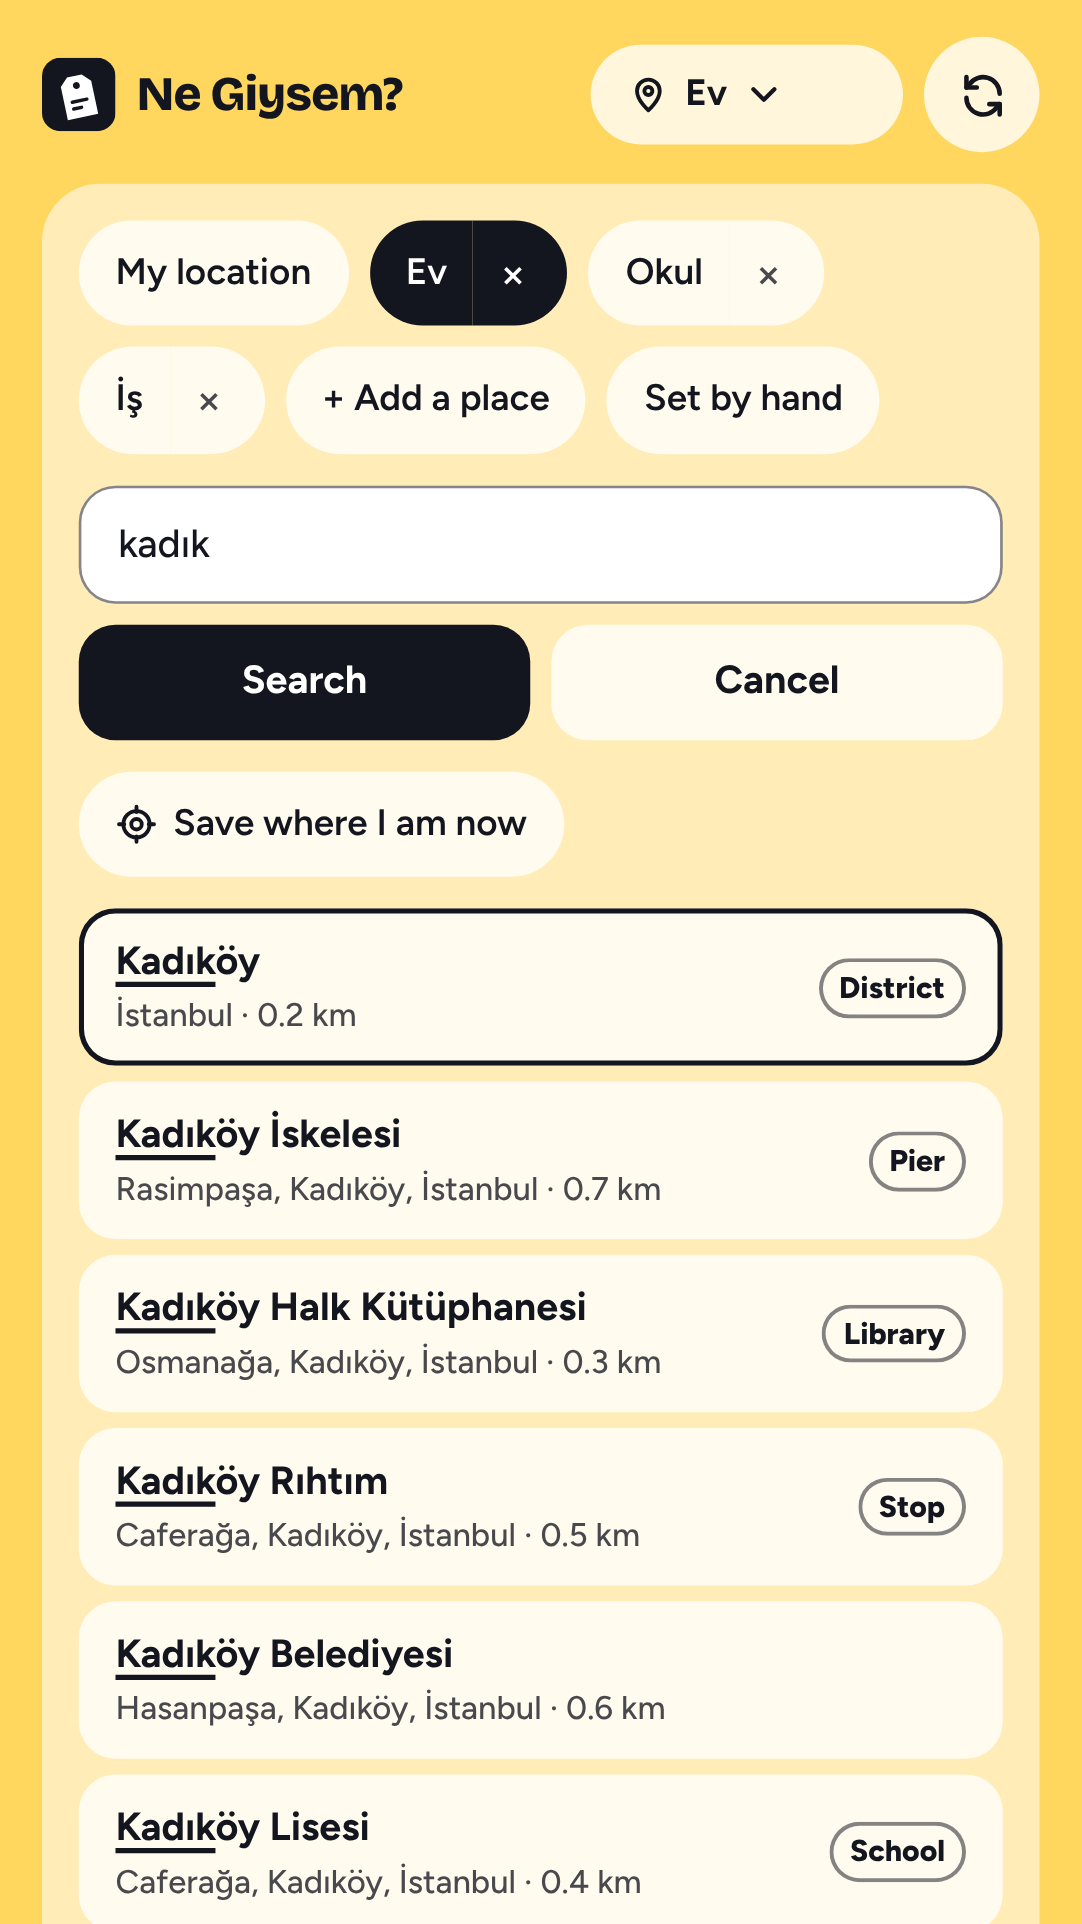
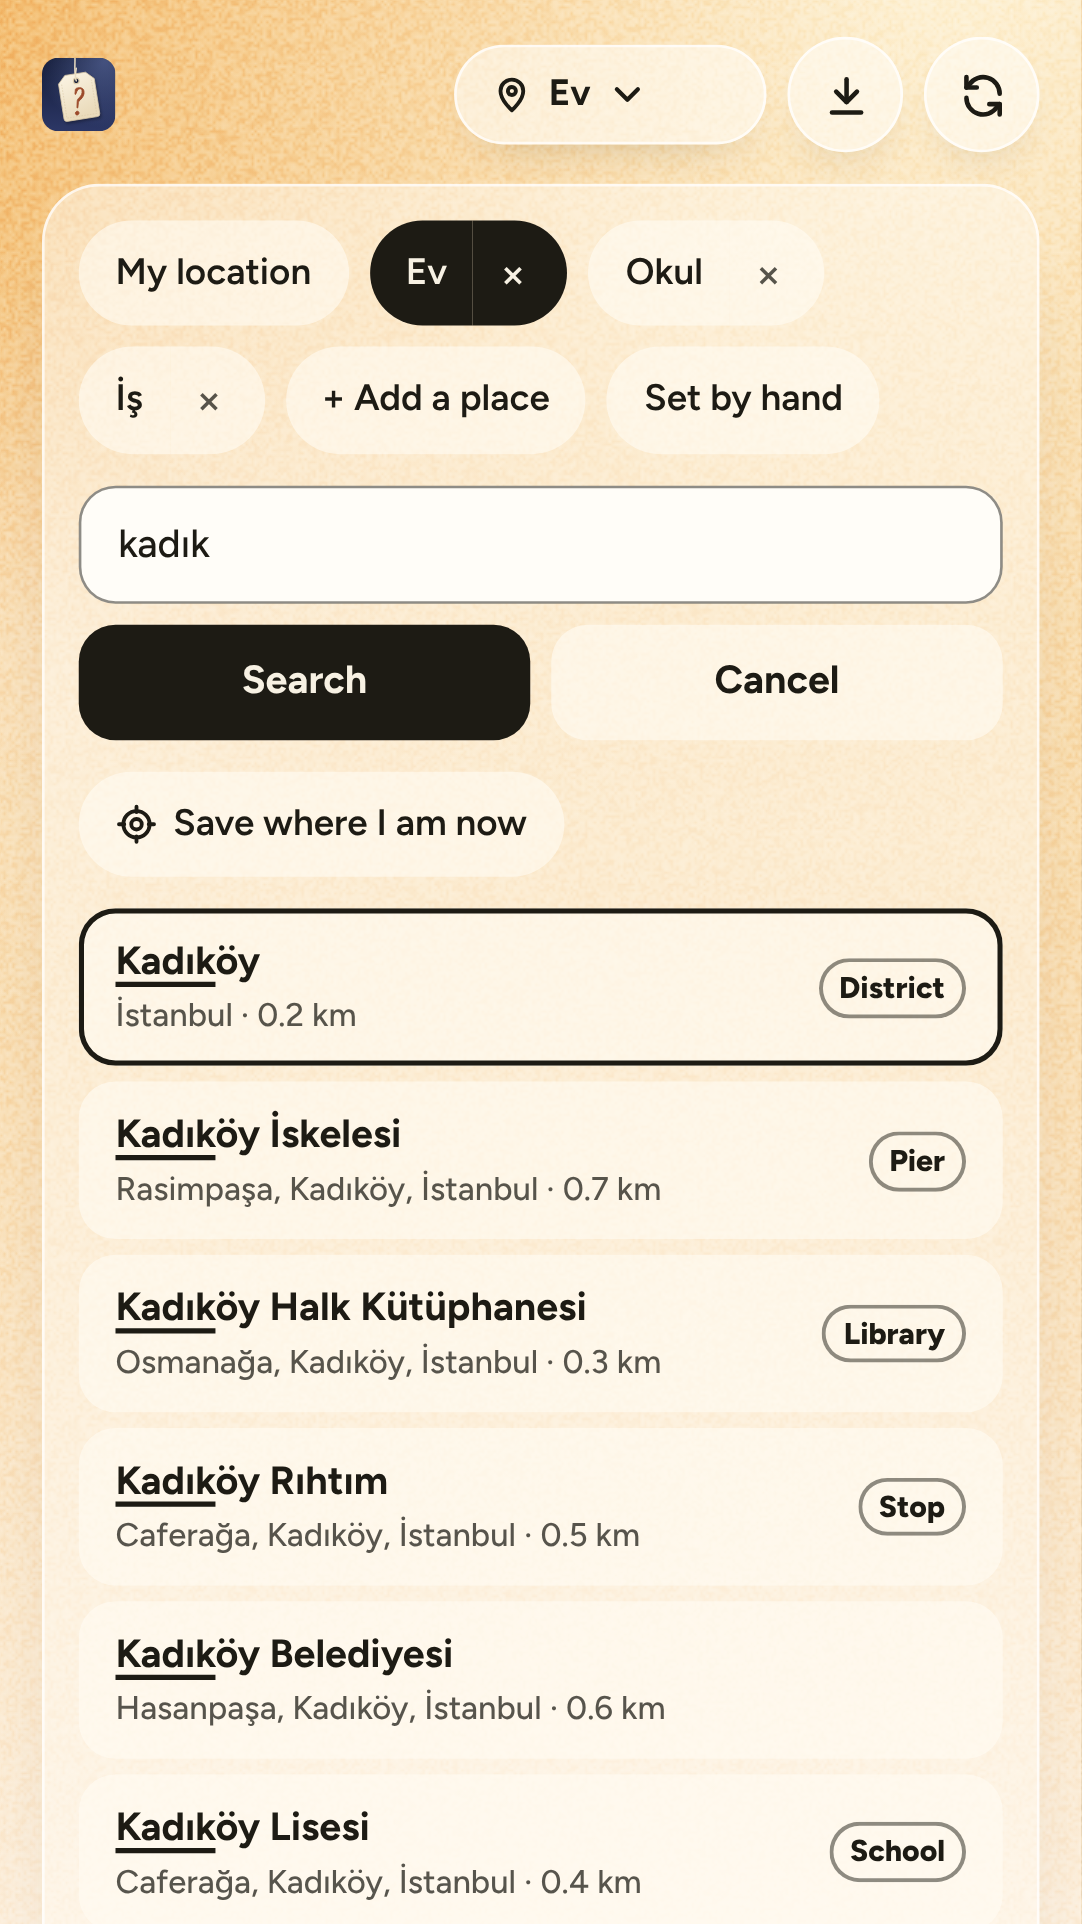
Widget seçici önizlemesi, mağaza görselleri ve Play ikonu yeni görünümde
- widget_preview.png: emülatörde çizilen 412×184 widget (CI'daki gorunum-onizleme.png), köşeleri yuvarlatılmış.
- Play ekran görüntüleri (TR, EN) yeni tasarımla yeniden üretildi; ekran görüntüsü betiği Instrument Serif'i
  yerelden veriyor.
- store/play/graphics/icon-512.png: Play Console'un uygulama ikonu (tools/icons.js üretir).

Claude-Session: https://claude.ai/code/session_01GVeiD9wVk58cdTMcuKfWye

diff --git a/tools/icons.js b/tools/icons.js
@@ -4,8 +4,9 @@
 //   app/src/main/res/mipmap-*dpi/ic_launcher_foreground.png      the tag (also the watch app's icon: wear/build.gradle.kts)
 //   app/src/main/res/mipmap-*dpi/ic_launcher_monochrome.png      the tag as a silhouette, for themed icons
 //   web/icons/favicon.svg, icon-192.png, icon-512.png, maskable-512.png, apple-touch-icon.png
+//   store/play/graphics/icon-512.png                              Google Play's app icon (full square: Play rounds it)
 //   web/index.html  the header logo (between <div class="logo"> and its <span>)
-// Run from the repository root after changing the mark (needs the tests' Playwright):
+// Run from the repository root after changing the mark (needs the tests' Playwright and Python's Pillow):
 //   node tools/icons.js
 const fs = require("fs"), path = require("path");
 const ROOT = path.resolve(__dirname, "..");
@@ -116,6 +117,11 @@ function backgroundXml() {
   await png(badge("i"), 512, path.join(icons, "icon-512.png"));
   await png(full("i", 1.2), 512, path.join(icons, "maskable-512.png"), true);   // the whole square: the system masks it
   await png(full("i", 1.3), 180, path.join(icons, "apple-touch-icon.png"), true);
+  const play = path.join(ROOT, "store/play/graphics/icon-512.png");
+  await png(full("i", 1.3), 512, play, true);
+  // Play asks for a 32-bit PNG: the same picture with an (opaque) alpha channel, via Python's Pillow.
+  const r = require("child_process").spawnSync("python3", ["-c", "import sys; from PIL import Image; Image.open(sys.argv[1]).convert('RGBA').save(sys.argv[1])", play]);
+  if (r.status !== 0) throw new Error("icon-512 RGBA: " + r.stderr);
   await browser.close();
 
   // The header logo (also drawn on the share picture), with its own ids.

diff --git a/store/README.md b/store/README.md
@@ -18,6 +18,7 @@ Google Play yayını ve web sitesi için hazırlanan dosyalar. Durum: 24 Ekim 20
 | `play/ads-declaration.md` | Reklam beyanı, reklam kimliği, reklam yerleşimi kontrol listesi, rıza notları. |
 | `play/app-access.md` | “Giriş gerekmez” cevabı ve inceleme ekibi için not. |
 | `play/graphics/feature-graphic.png`, `feature-graphic-en.png` | Öne çıkan grafik (1024×500). Yeniden üret: `NODE_PATH=$(npm root -g) node store/play/graphics/make-feature-graphic.js` (kıyafet çizimleri `web/index.html` içindeki `ART`/`rackArt`’tan okunur). Uygulama ikonu, web ikonları ve başlıktaki logo: `node tools/icons.js`. |
+| `play/graphics/icon-512.png` | Play Console'daki uygulama ikonu (512×512, tam kare; Play köşeleri kendisi yuvarlar). `node tools/icons.js` üretir. |
 | `play/screenshots/make-screenshots.js` → `out/*.png` | Telefon ekran görüntüleri (1082×1924, 9:16). Ağ tamamen taklit edilir; özellik henüz yoksa o kare atlanır ve listelenir. İngilizce: `SHOT_LANG=en` (TODO, İngilizce arayüz gelince doldur). |
 | `play/fonts/` | Ekran görüntüsü ve grafik için Instrument Serif ve Figtree (SIL OFL 1.1, lisansları yanında). Instrument Serif saat yüzünde ve saat uygulamasında da var (`res/font`). |
 
